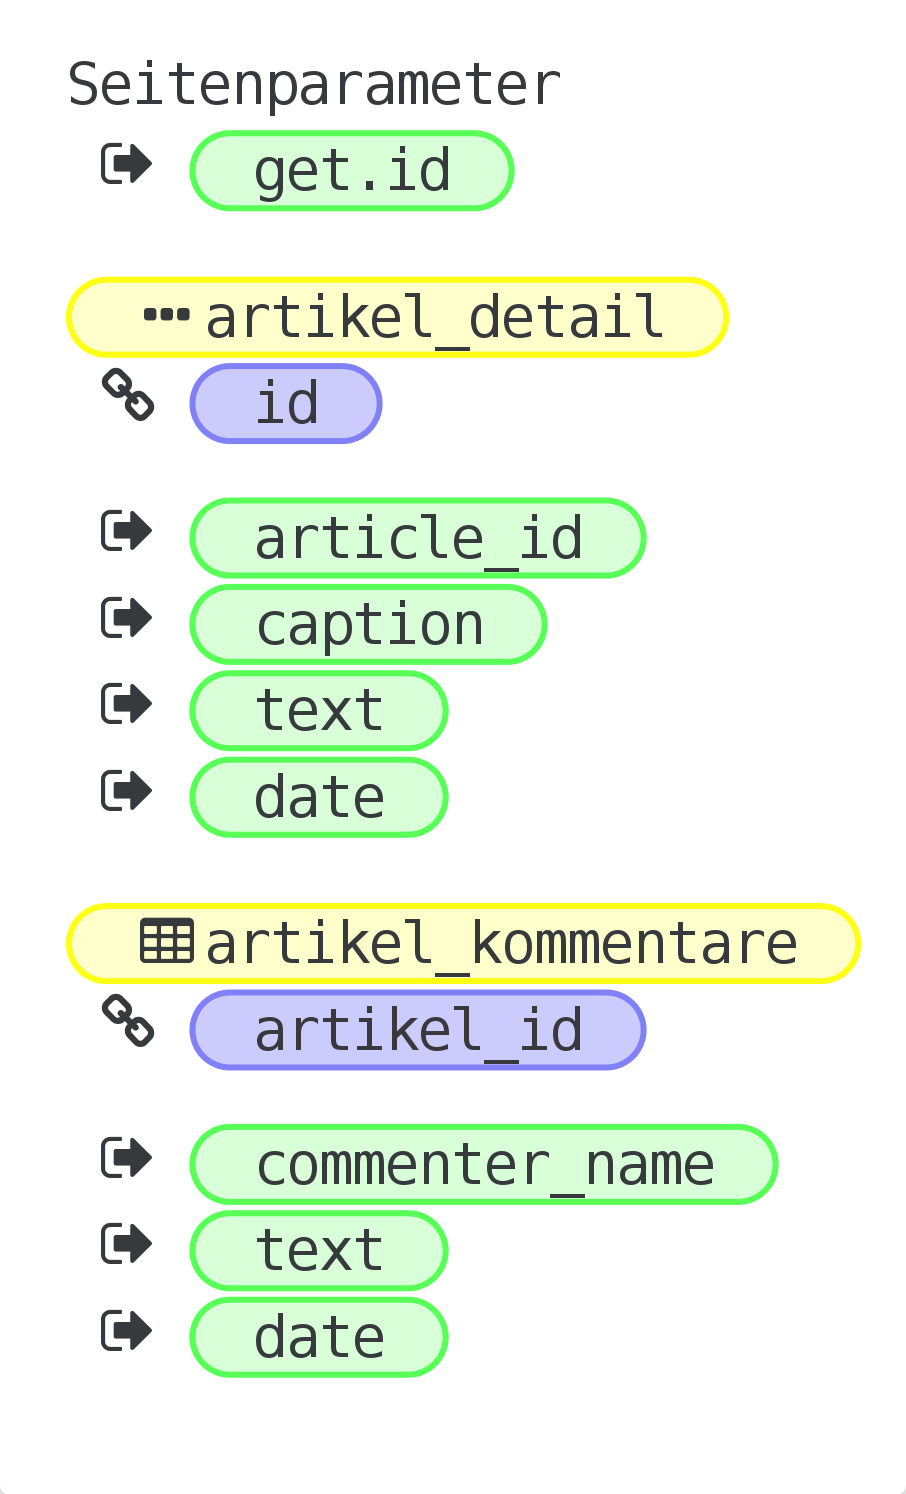
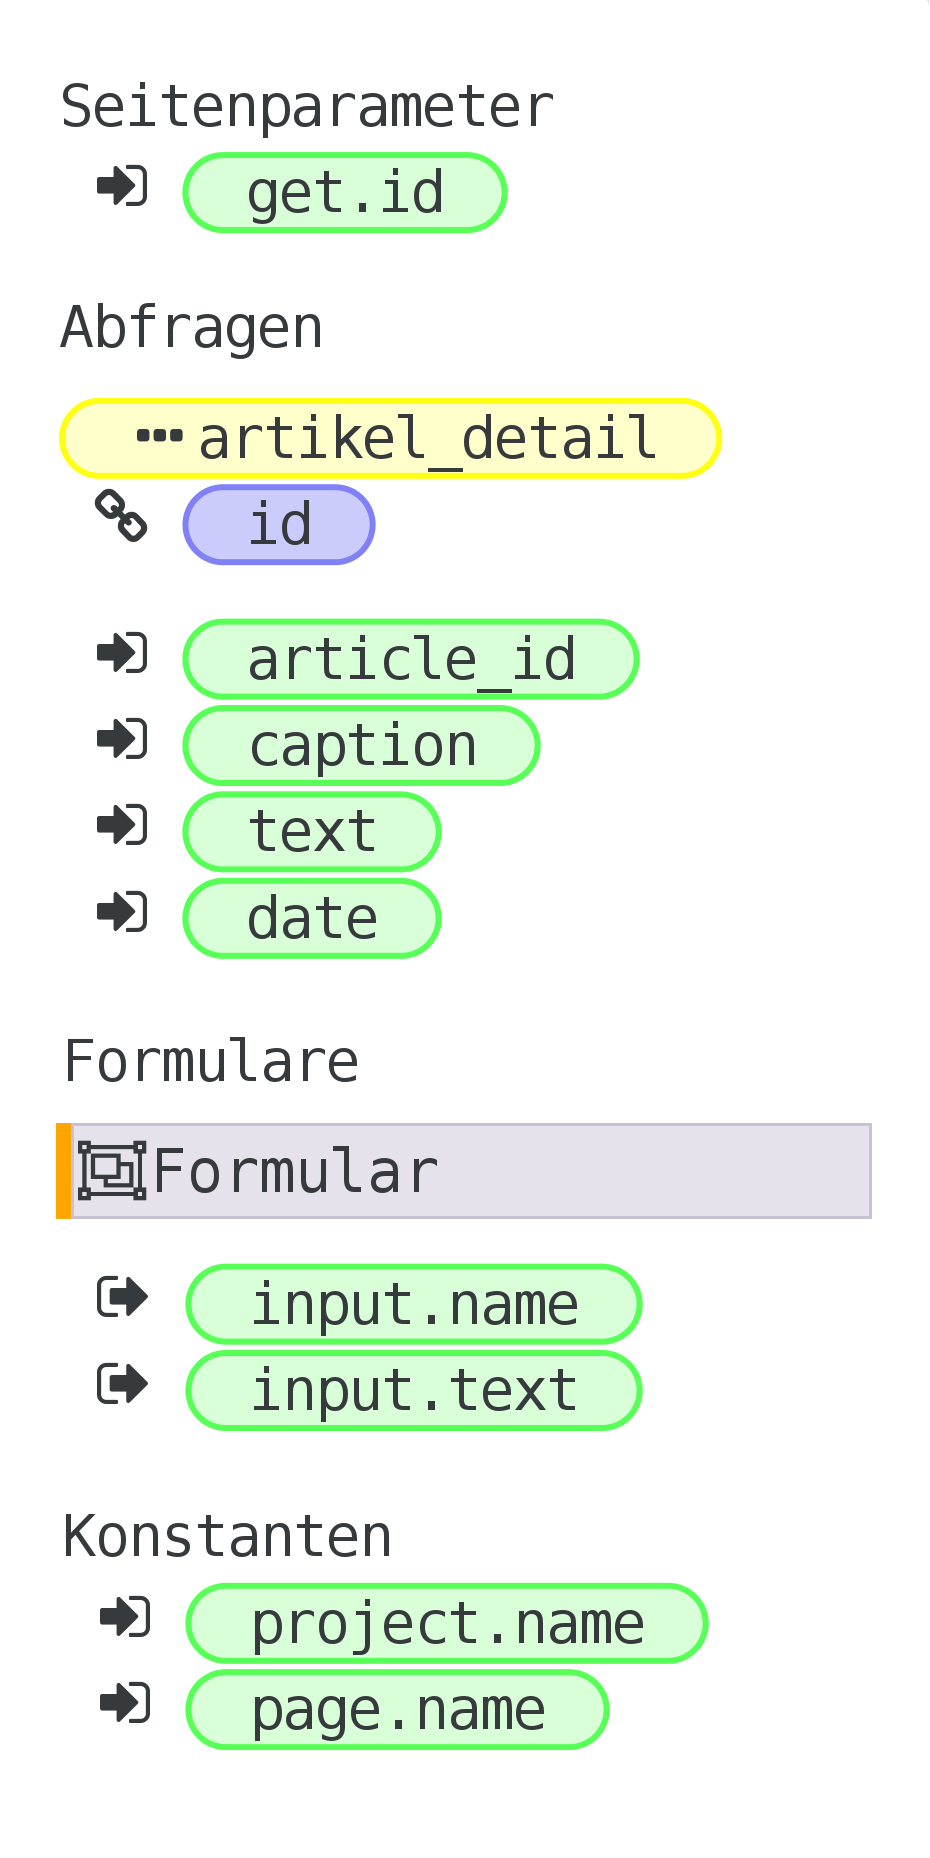
Thesis: Described data sidebar

diff --git a/doc/thesis-riemer-concept/kap-3-anforderung.tex b/doc/thesis-riemer-concept/kap-3-anforderung.tex
@@ -1094,17 +1094,17 @@ Diese beiden Funktionen werden üblicherweise in eigenen Unterfenstern bereitges
   \label{fig:sidebar-example}
 \end{figure}
 
-Für \idename{} sollte allerdings noch ein weiterer Bereich zum Einsatz kommen: Eine Auflistung aller verfügbaren Datenquellen. Diese Funktion ist nicht Bestandteil von gängigen Entwicklungsumgebungen, weil die Datenbestände wahlweise zu groß oder zu unstrukturiert sind und manchmal sogar erst zur Laufzeit erzeugt werden. Bei \idename{} ist der Datenbestand hingegen sehr gut strukturiert und typischerweise auch übersichtlich (siehe \fullref{sec:page-data-sources}). Dementsprechend sollten beim editieren der Seite die zur Verfügung stehenden Datenquellen gezeigt werden.
+Für \idename{} sollte allerdings noch ein weiterer Bereich zum Einsatz kommen: Eine Auflistung aller verfügbaren Datenquellen. Diese Funktion wird von Entwicklungsumgebungen, im Vergleich zu dem Editor für Eigenschaften und der Aufzählung verfügbarer Bedienelemente, nur sehr uneinheitlich angeboten. Häufig liegt das an sehr großen oder nur unstrukturiert vorliegenden Datenbestände, die manchmal sogar erst zur Laufzeit erzeugt werden. Insbesondere bei Skriptsprachen liegt der Entwicklungsumgebung in der Regel kein formales Datenmodell vor. An dieser Stelle behelfen sich die Editoren indem sie für jede zu bearbeitende Oberfläche explizite ein formales Datenmodell einfordern. Der \texttt{WPF}-Editor des Visual Studio erlaubt zum Beispiel die Angabe einer "`ViewModel"'-Klasse, die dann zur Designzeit vom Editor instanziiert wird. Dementsprechend muss diese Klasse auch losgelöst von ihren typischen Datenquellen (Datenbank, Webservice,~...) agieren können.
 
-Auch \idename{} wird den Seiteneditor also in zwei wesentliche Bereiche unterteilen: Einen Hauptbereich zum editieren und eine Seitenleiste mit verfügbaren Daten, Bedienelementen und den Eigenschaften eines ausgewählten Bedienelements. Die Inhalte der Seitenleiste sollen dabei zwischen wann immer möglich zwischen dem WYSIWYG- und dem Block-Editor geteilt werden können.
+Bei \idename{} ist der gesamte Datenbestand hingegen in Namensräumen vorstrukturiert und typischerweise in Bezug auf die Datenmenge auch übersichtlich (siehe \fullref{sec:page-data-sources}). Dementsprechend sollten beim Editieren der Seite die zur Verfügung stehenden Datenquellen einfach ausgewählt werden können, ohne dass dafür aus Sicht des Entwicklers besondere Vorkehrungen getroffen werden müssten.
 
-Die unterschiedlichen Bestandteile der Seitenleiste können sich bei einer größeren Anzahl von Elementen in die Quere kommen. Andere Entwicklungsumgebungen lösen das durch die Nutzung von Tab- oder Akkordeon-Containern, so das sich aktuell störende Elemente ausblenden lassen. An dieser Stelle wird ein praktischer Test mit Anwendern am Besten zeigen können, welcher Ansatz zu bevorzugen ist.
+\idename{} wird den Seiteneditor also in zwei wesentliche Bereiche unterteilen: Einen großen Hauptbereich zum Editieren und eine schmale Seitenleiste mit verfügbaren Daten, Bedienelementen und den Eigenschaften eines ausgewählten Bedienelements. Die Inhalte der Seitenleiste sollen dabei zwischen wann immer möglich zwischen dem WYSIWYG- und dem Block-Editor geteilt werden können. Die unterschiedlichen Bestandteile der Seitenleiste können bei einer größeren Anzahl von Elementen die Übersichtlichkeit negativ beeinträchtigen. Andere Entwicklungsumgebungen lösen das durch die Nutzung von Tab- oder Akkordeon-Containern, so das sich aktuell störende Elemente ausblenden lassen. An dieser Stelle wird ein praktischer Test mit Anwendern am Besten zeigen können, welcher Ansatz für \idename{} zu bevorzugen ist.
 
 \subsubsection{Seitenleiste: Editieren von Eigenschaften}
 
 Um Eigenschaften von Bedienelementen auch ohne spezielle Komponenten editieren zu können, wird in der Seitenleiste ein Editor für Eigenschaften bereitgestellt. Diese Vorgehensweise ermöglicht eine universelle Bearbeitungsmöglichkeit unabhängig von der Repräsentation im eigentlichen Editorbereich. Sowohl ein WYSIWYG- als auch ein "`Block"'-Editor können also, bewusst oder als "`Fallback"', auf identische generische Bearbeitungsmethoden für Bedienelemente zurückgreifen. Abbildung~\ref{fig:sidebar-property-editor} zeigt Beispiele für die im Prototypen implementierten Editoren.
 
-Sofern möglich werden dabei identische Eigenschaften bei unterschiedlichen Bedienelementen identisch angeordnet. Eingabeelemente für Formulare (\fullref{fig:sidebar-property-editor-input} \& \fullref{fig:sidebar-property-editor-select}) fragen immer zuerst nach dem \texttt{name}-Attribut und dem logischen Titel des editierten Elements.
+Sofern möglich werden dabei identische Eigenschaften bei unterschiedlichen Bedienelementen identisch angeordnet. Eingabeelemente für Formulare (\fullref{fig:sidebar-property-editor-input} \& \fullref{fig:sidebar-property-editor-select}) fragen immer zuerst nach dem \texttt{name}-Attribut ("`Eingabename"') und dem dargestellten Titel des editierten Elements.
 
 \begin{figure}[p]
   \begin{subfigure}[b]{0.45\textwidth}
@@ -1135,7 +1135,19 @@ Sofern möglich werden dabei identische Eigenschaften bei unterschiedlichen Bedi
 
 \subsubsection{Seitenleiste: Angebot von Bedienelementen}
 
-Technisch gesehen ist dieses Element keine besondere Herausforderung: Es handelt sich um eine einfache Auflistung von verfügbaren Bedienelementen. Die wesentliche abzusehende Problematik die potenziell sehr große Anzahl anzuzeigender Elemente.
+Technisch gesehen ist dieses Element keine besondere Herausforderung: Es handelt sich um eine einfache Auflistung von verfügbaren Bedienelementen. Um den Wiedererkennungswert von bestimmten Bedienelementen zu steigern, werden diese mit einem kleinen Symbol ausgestattet (Abbildung~\ref{fig:sidebar-editor-widgets}).
+
+Die wesentliche Herausforderung für diese Komponente liegt in der absehbar immer größer werdenden Anzahl von Bedienelementen. Der Prototyp nimmt schon den Versuch einer Kategorisierung vor (blau für Layoutelemente, grün für \texttt{HTML}-Elemente, orange für Elemente mit einer komplexen Darstellung), diese konkreten Einordnungen sind aber noch nicht endgültig.
+
+\subsubsection{Seitenleiste: Angebot von verfügbaren Daten}
+
+Die Anzeige der verfügbaren Daten ist grundsätzlich auch eine Aufzählung der Inhalte aller gefüllten Namensräume. Und ähnlich wie beim vorigen Punkt ist auch an dieser Stelle die wesentliche Herausforderung erneut die potenziell sehr große Anzahl von Bedienelementen.
+
+Zur besseren Visualisierung sind an dieser Stelle verschiedene Symbole für die korrekte Verbindung notwendiger Parameter vorgesehen. Der in das Rechteck eintretende Pfeil (zum Beispiel bei \texttt{GET}-Parametern und Abfragen) symbolisiert Werte die bereits vor dem Rendervorgang zur Verfügung stehen und daher in das Template eingesetzt werden können. Werte die aus einem Rechteck austreten, stehen erst auf der Folgeseite zur Verfügung, zum Beispiel Formulardaten.
+
+Problematisch bei dieser Visualisierung ist ein technisches Detail: Ein Formular kann in Abhängigkeit der verwendeten \texttt{<button>}-Elemente auf mehr als ein Ziel verweisen. Daher hat das \texttt{<form>}-Element intern bisher keine weitere Bedeutung außer "`Elternelemente für Eingabeelemente"' und damit auch keinen Namen oder eine ähnlich identifizierende Eigenschaft, die in der Seitenleiste angezeigt werden könnte. Daher kommt es in der Darstellung zu einer Doppelung des Begriffs "`Formular"'.
+
+Die Kettenglieder stehen für korrekt gebundene Parameter einer Abfrage. Sofern ein erforderlicher Parameter nicht an einen Wert gebunden wurde, verfärbt sich der Name des entsprechenden Parameters rot und das Symbol zeigt ein gerissenes Glied.
 
 \begin{figure}[h]
   \begin{subfigure}[b]{0.45\textwidth}
@@ -1146,13 +1158,11 @@ Technisch gesehen ist dieses Element keine besondere Herausforderung: Es handelt
   \begin{subfigure}[b]{0.45\textwidth}
     \includegraphics[width=\textwidth]{images/screenshots/20161019/editor-page-data}
     \caption{Verfügbare Daten}
-    \label{fig:sidebar-editor-widgets}
+    \label{fig:sidebar-editor-data}    
   \end{subfigure}
   \caption{Weitere Elemente der Seitenleiste}
-  \label{fig:sidebar-widgets-data}
+  \label{fig:sidebar-widgets}
 \end{figure}
-
-\subsubsection{Seitenleiste: Angebot von verfügbaren Daten}
 
 \subsubsection{Umgang mit Parametern}
 
